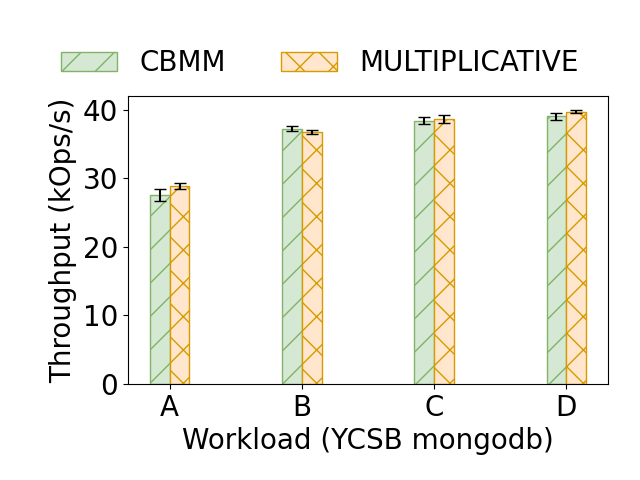
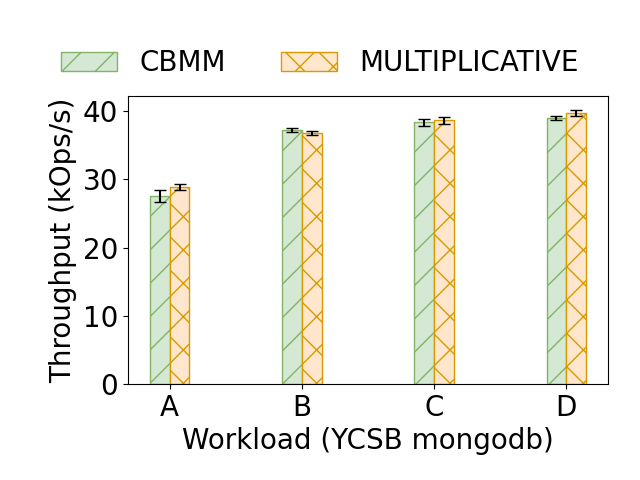
final backup

diff --git a/ycsb/plot.py b/ycsb/plot.py
@@ -21,8 +21,8 @@ if ebpfmode:
     ]) * constant
 
     stdevs = np.array([
-        [845.1661715, 341.3795039, 533.1284445, 482.3592509], 
-        [424.1658662, 276.6968672, 536.38078, 261.8912859]
+        [845.1661715, 276.6968672, 536.38078, 261.8912859], 
+        [424.1658662, 341.3795039, 533.1284445, 482.3592509]
     ]) * constant
 
 data = data.T
